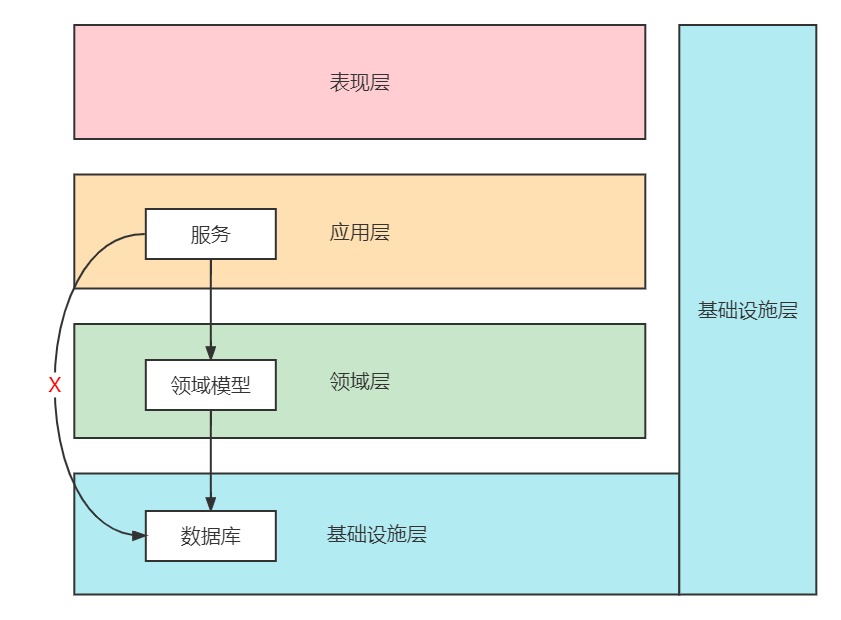
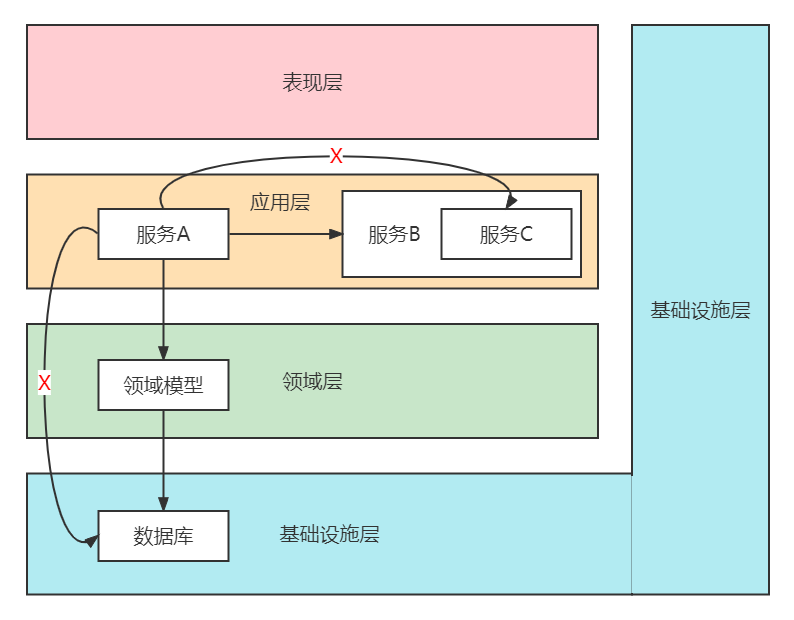
提交图片资源

diff --git a/README.md b/README.md
@@ -7,7 +7,7 @@ Spring体系下实现的领域驱动框架。核心功能：
 - 领域事件传播
 - 防腐层映射与查询
 
-## 领域划分
+## 依赖管理
 
 ### 示意图
 
@@ -18,12 +18,6 @@ Spring体系下实现的领域驱动框架。核心功能：
 基础设施层囊括了之前的持久层。
 
 为了防止应用层跳过领域层，直接调用底层持久层服务，需要先进行领域划分，以此梳理出各个领域之间的关系。
-
-### 示意图
-
-![avatar](https://gitee.com/digital-engine/spring-domain/raw/master/static/img/group.png)
-
-同理，在同一层中，也存在以上的问题。
 
 ### 配置
 
@@ -39,5 +33,3 @@ spring:
       - name: dal-domain                # 一个名叫dal-domain的领域，它是dal的子域
         pattern: com.company.project.domain.**
 ```
-
-### 
